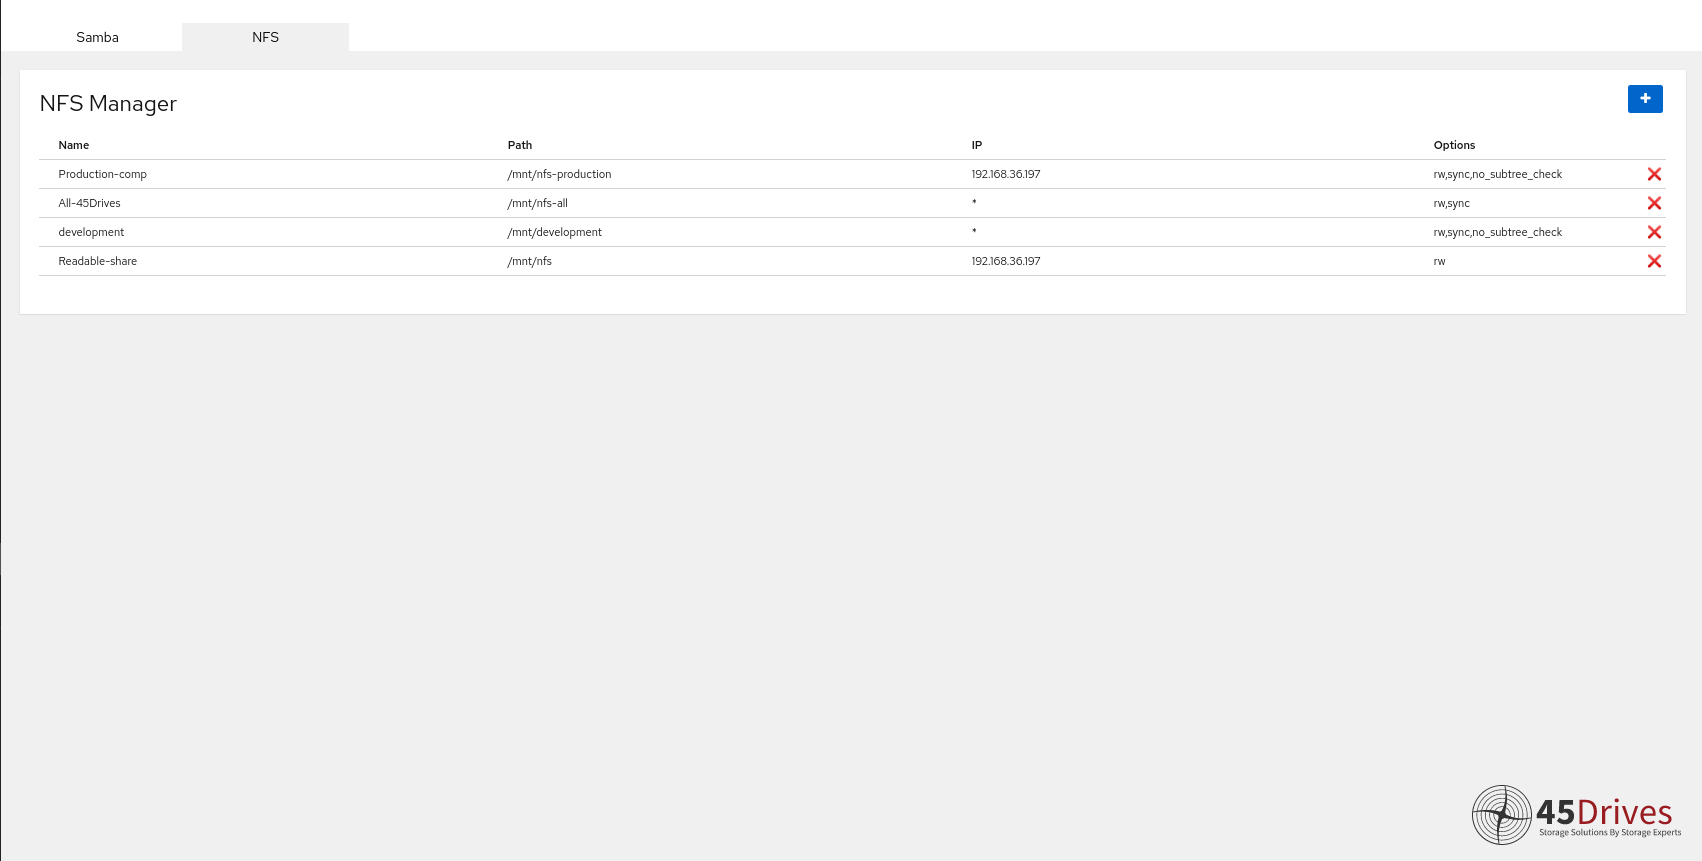
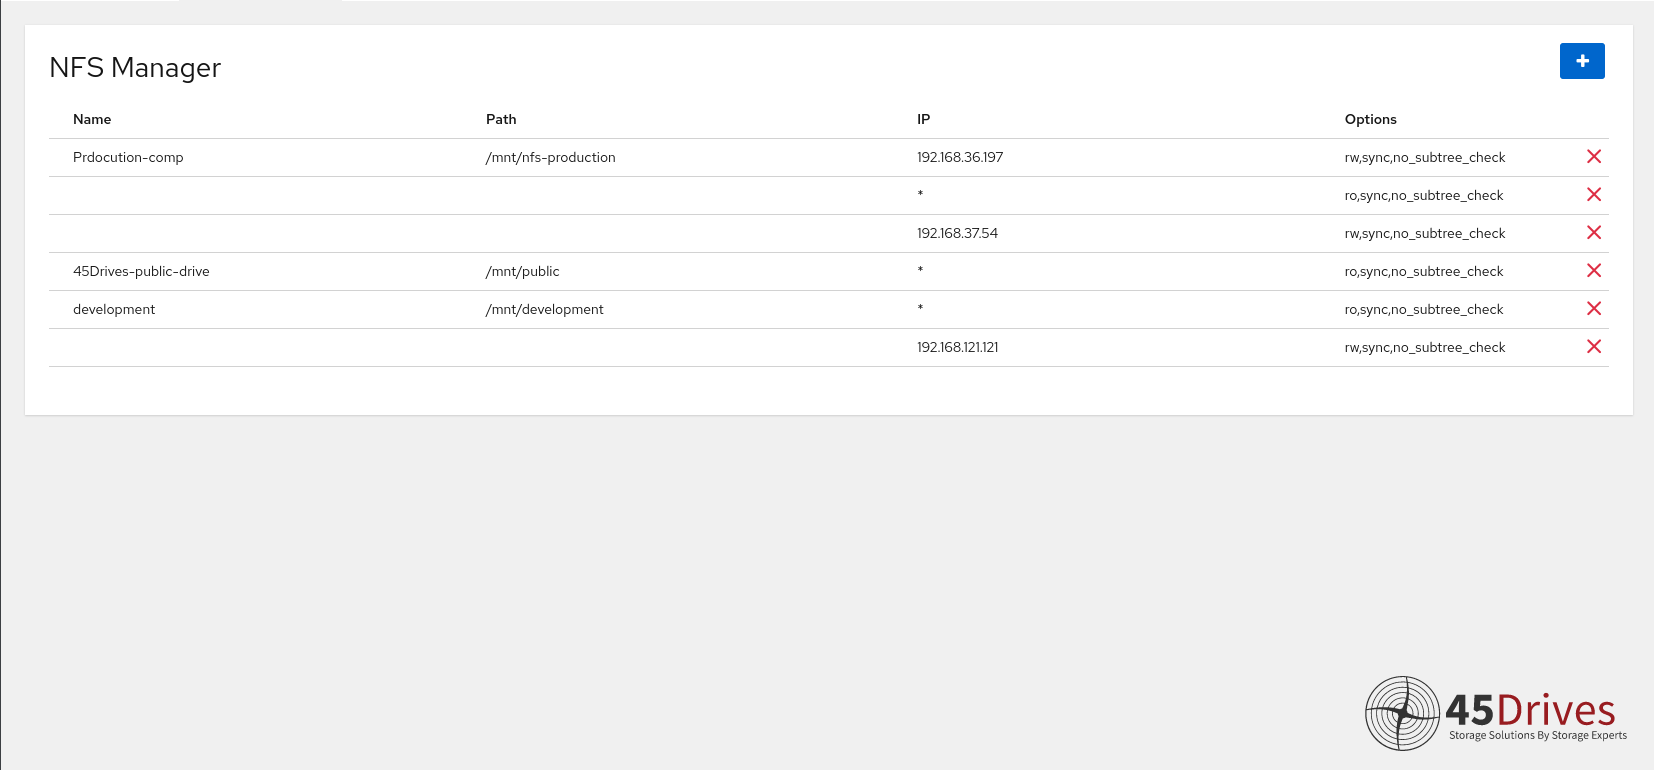
Updated documentation to align with new features

diff --git a/README.md b/README.md
@@ -111,4 +111,8 @@ You can add privileges by clicking on the "+" button. You will be greeted with t
 ## NFS Manager
 ![NFS](img/nfs/nfs.gif)
  
-You can add NFS by clicking "+" button. Within the nfs add menu you have the  options for, name of the NFS, path to files of the NFS, IP of who's allowed to access the NFS and options of the NFS. Removing a NFS is as easy as clicking the "X" beside the NFS you would like to delete, then confirm.
+You can add a NFS export by clicking "+" button. Within the nfs add menu, you have the options for name and path. There is also a section for clients. You may add a client by clicking the "+" button. This will give you another set of IP and options. The IP is who can access the particular export and the options are the permissions that IP has on the export. By adding multiple clients you can have multiple IP address accessing the same export, all having different permissions. 
+
+We have set the default IP to "*". This means that anyone can have access to that export. We have set defaults of permissions to rw,sync,no_tree_subcheck. If you want to enter your own permissions, do so by separating the options by commas (See out defaults for example). Check https://linux.die.net/man/5/nfs to see a full list of available options/permissions. 
+
+Removing a NFS is as easy as clicking the "X" beside the NFS you would like to delete, then confirm.
